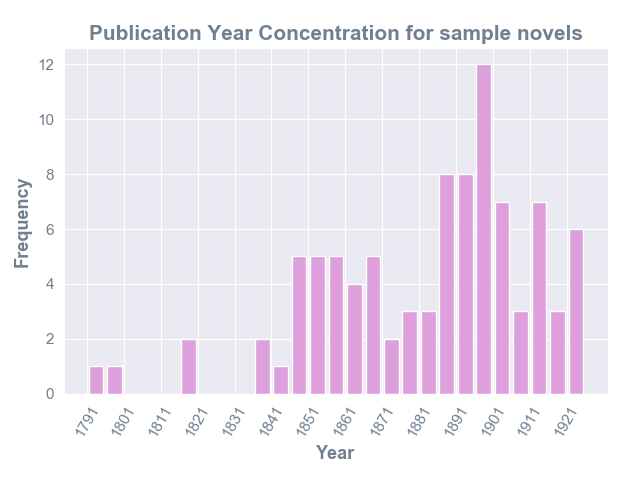
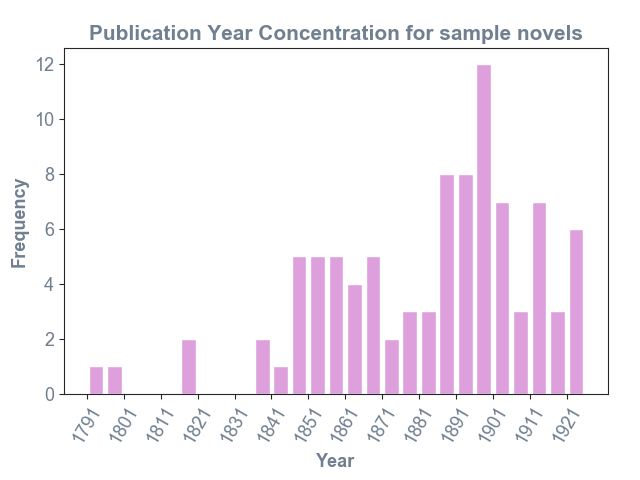
Changed Graphs to increase clarity of information

diff --git a/gender_novels/analysis/visualizations/datagraphs_functions.py b/gender_novels/analysis/visualizations/datagraphs_functions.py
@@ -9,7 +9,7 @@ def plt_pubyears(years,name_of_data):
     :param years: list
     RETURNS a pyplot histogram
     '''
-    sns.set_style('darkgrid')
+    sns.set_style('ticks')
     ax1=plt.subplot2grid((1,1),(0,0))
     bins=[num for num in range(min(years),max(years)+5,5)]
     plt.hist(years,bins,histtype='bar',rwidth=.8,color='plum')
@@ -17,8 +17,8 @@ def plt_pubyears(years,name_of_data):
     plt.ylabel('Frequency',size=13,weight='bold',color='slategray')
     plt.title('Publication Year Concentration for '+name_of_data,size=15,weight='bold',
               color='slategray')
-    plt.yticks(size=11,color='slategray')
-    plt.xticks([i for i in range(min(years),max(years)+9,10)],size=11,color='slategray')
+    plt.yticks(size=13,color='slategray')
+    plt.xticks([i for i in range(min(years),max(years)+9,10)],size=13,color='slategray')
     for label in ax1.xaxis.get_ticklabels():
         label.set_rotation(60)
     plt.subplots_adjust(left=.1,bottom=.18,right=.95,top=.9)
@@ -30,7 +30,7 @@ def plt_pubcountries(pub_country,name_of_data):
     :param pub_country: list
     RETURNS a pyplot bargraph
     '''
-    sns.set_style('darkgrid')
+    sns.set_style('ticks')
     ax1=plt.subplot2grid((1,1),(0,0))
     country_counter={}
     for country in pub_country:
@@ -43,8 +43,8 @@ def plt_pubcountries(pub_country,name_of_data):
     plt.xlabel('Countries',size=13,weight='bold',color='slategray')
     plt.ylabel('Frequency',size=13,weight='bold',color='slategray')
     plt.title('Country of Publication for '+name_of_data,size=15,color='slategray',weight='bold')
-    plt.xticks(color='slategray',size=12)
-    plt.yticks(color='slategray',size=12)
+    plt.xticks(color='slategray',size=13)
+    plt.yticks(color='slategray',size=13)
     plt.subplots_adjust(left=.1,bottom=.18,right=.95,top=.9)
     plt.savefig('country_of_pub_for_'+name_of_data+'.png')
 
@@ -67,7 +67,7 @@ def plt_gender_breakdown(pub_gender,name_of_data):
     for i in range(len(genders)):
         labelgenders.append(genders[i]+': ' + str(round(slices[i],2)*100)+'%')
     colors=['slateblue','mediumpurple','plum']
-    plt.pie(slices,colors=colors,labels=labelgenders)
+    plt.pie(slices,colors=colors,labels=labelgenders,textprops={'fontsize':15})
     plt.title('Gender Breakdown for '+name_of_data,size=15,color='slategray',weight='bold')
     plt.legend()
     plt.subplots_adjust(left=.1,bottom=.1,right=.9,top=.9)
